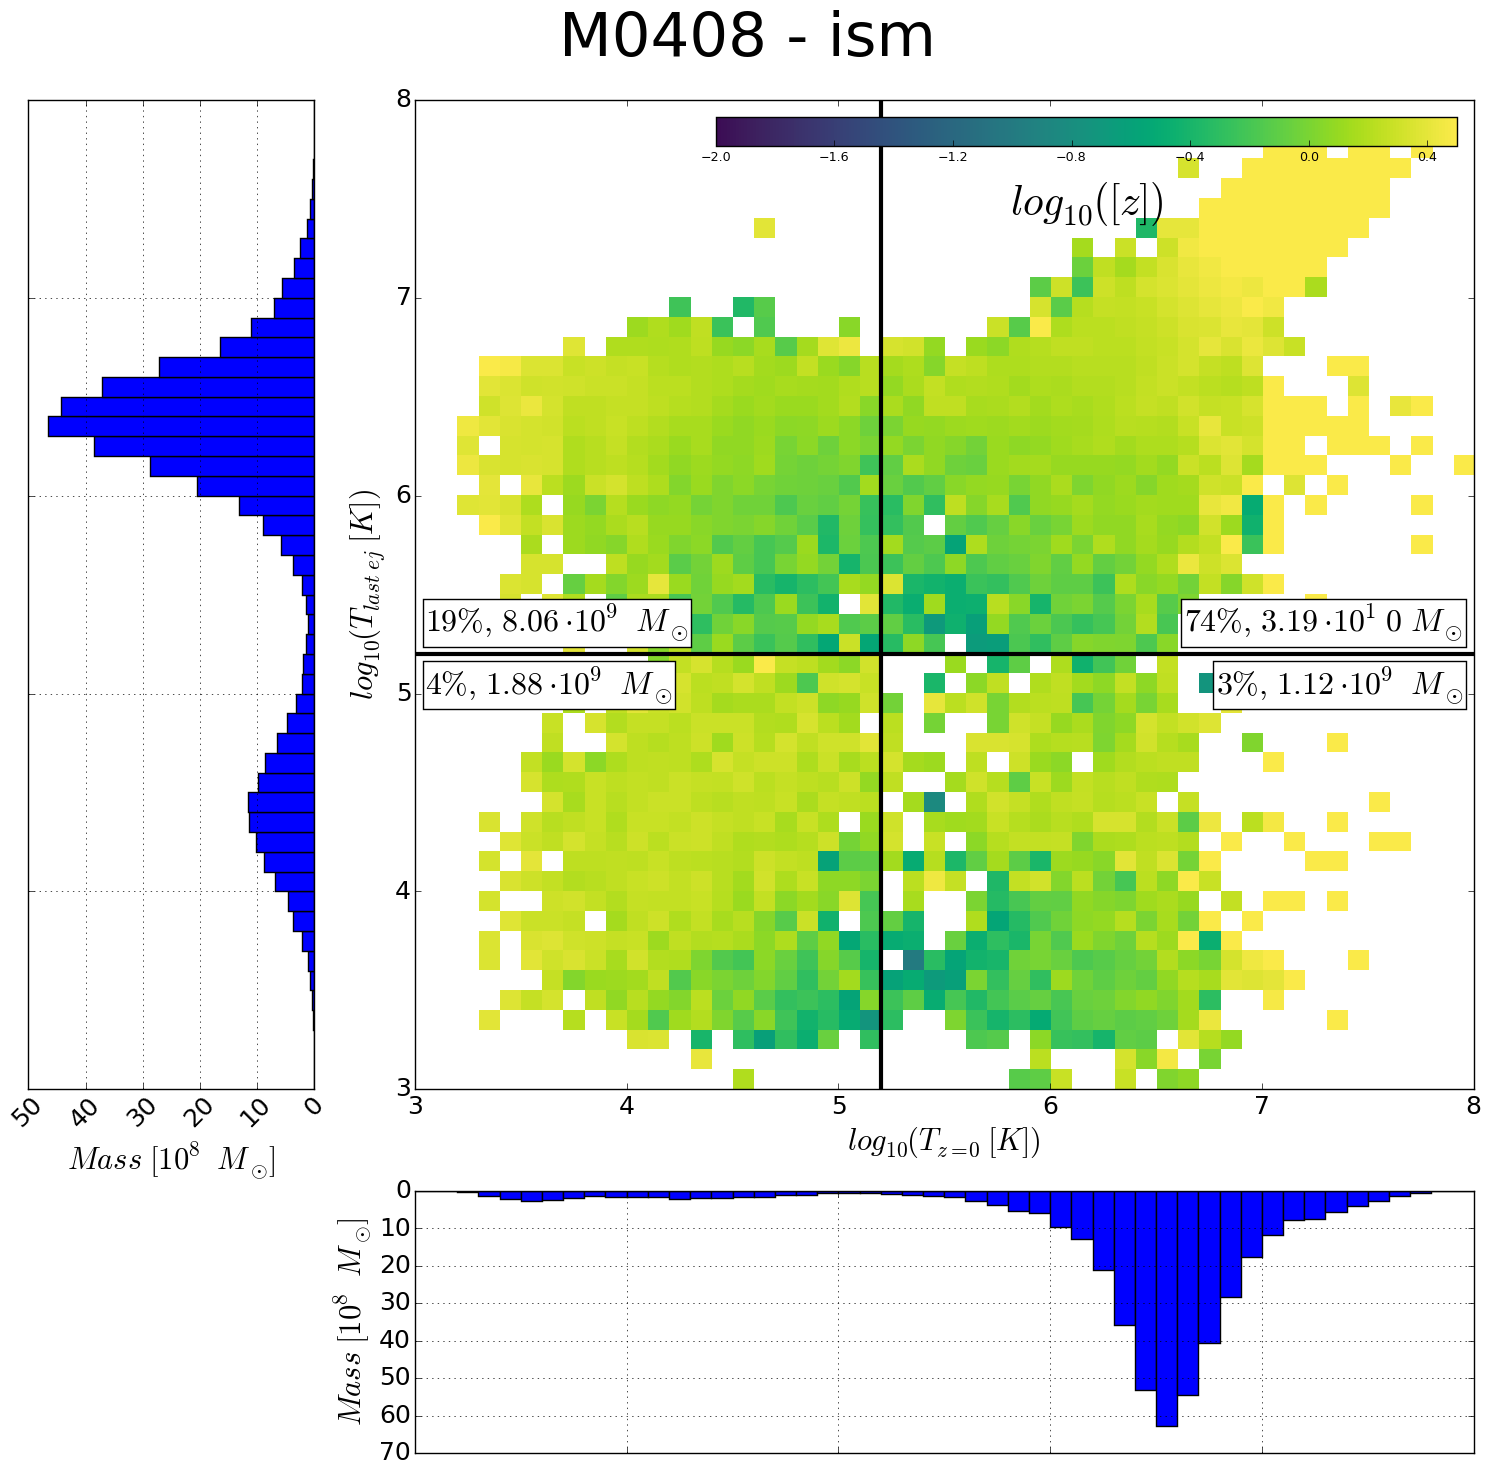
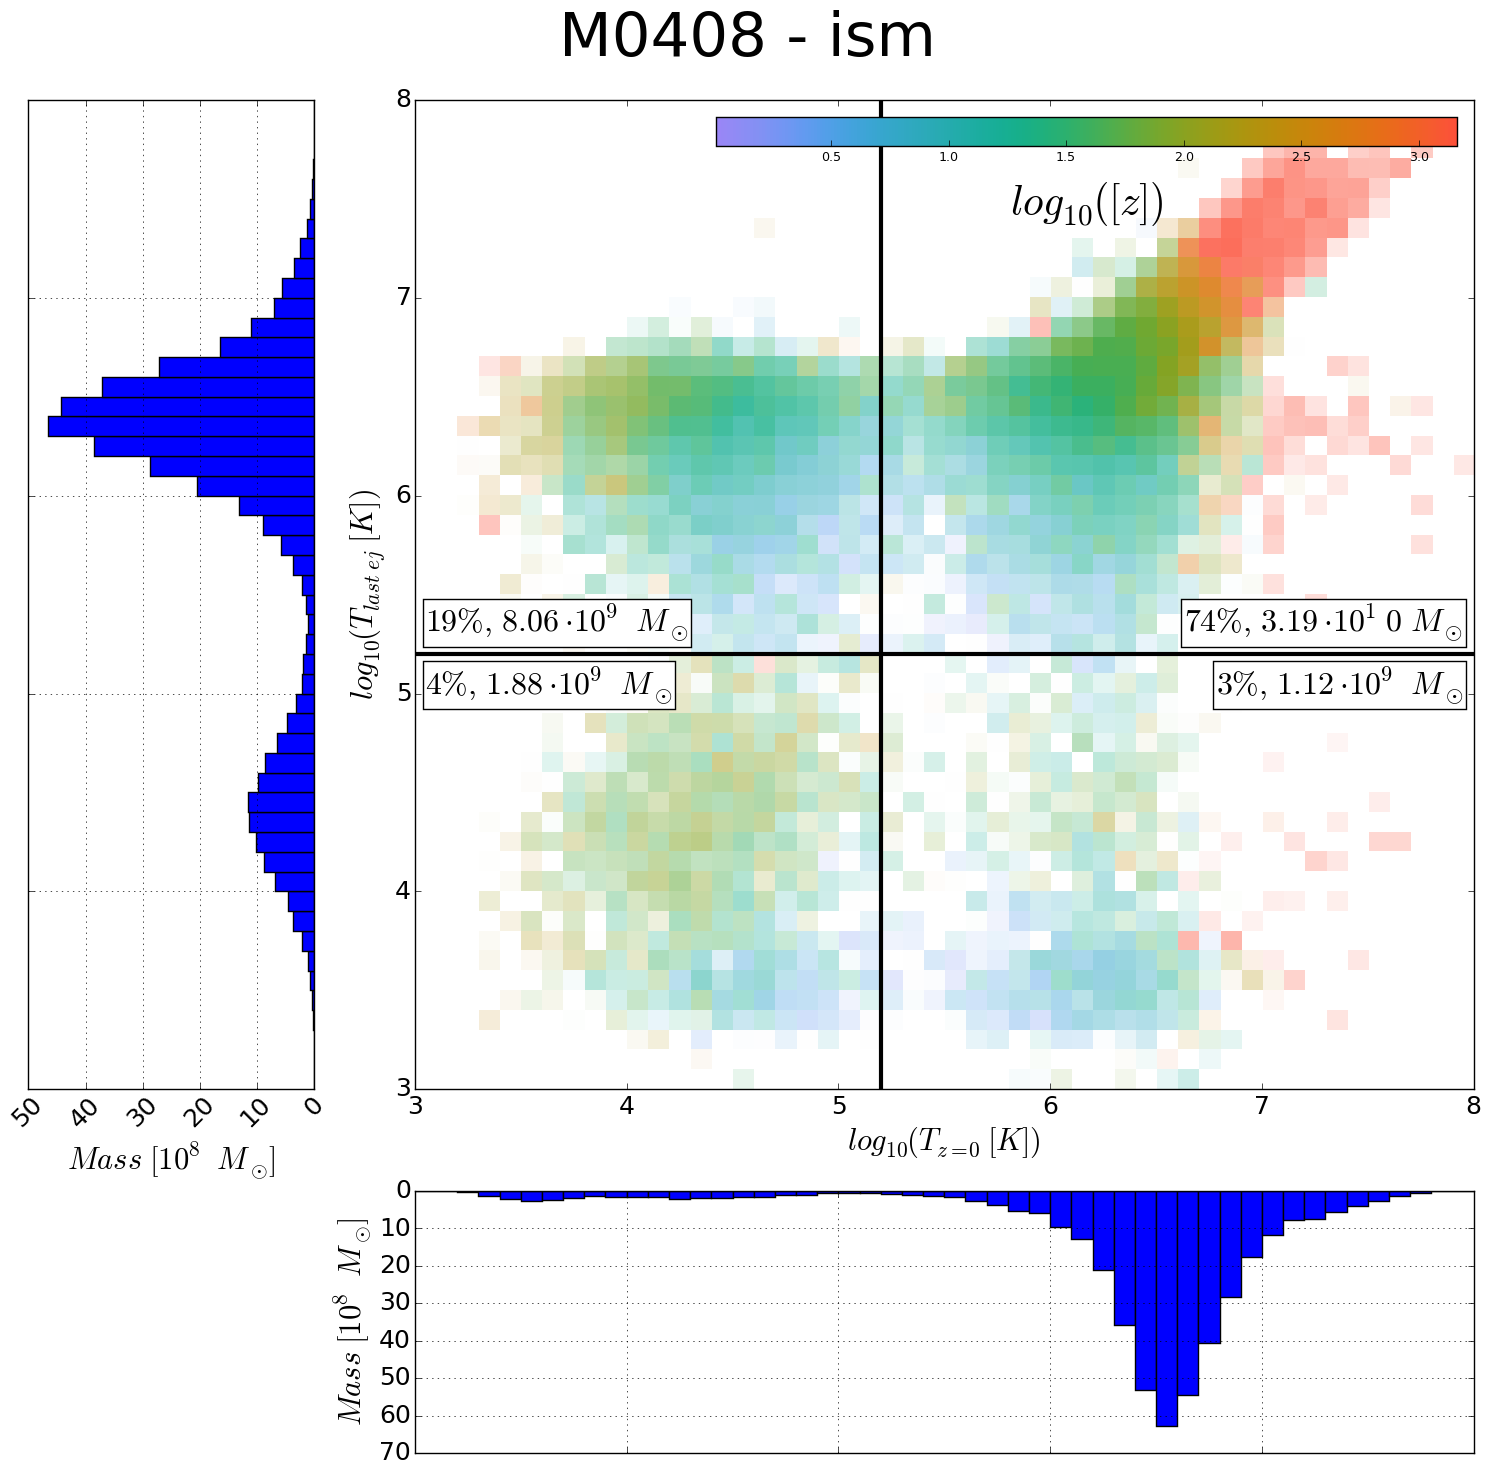
T_z0_vs_ej color by [z], brightness by mass

Changed region(s): [[0.3089, 0.0624, 0.9886, 0.7485], [0.8959, 0.6861, 0.9268, 0.7173]]

diff --git a/1/T_z0_vs_ejection.py b/1/T_z0_vs_ejection.py
@@ -53,9 +53,9 @@ def plot(args):
     ax3 = plt.subplot(gs[-1, 1:])
 
     _, _, _, cbar = pg.plotting.scatter_map('log10(temp)', np.log10(last_T),
-        s=cgm_m, qty=cgm_m['metallicity']/pg.solar.Z(), logscale=True, bins=[bins, bins],
-        extent=[[3, 8], [3, 8]], zero_is_white=True, av='mass',
-        vlim=[10**-2, 10**.5], ax=ax1)
+        s=cgm_m, qty='mass', colors=cgm_m['metallicity']/pg.solar.Z(),
+        logscale=True, bins=[bins, bins], extent=[[3, 8], [3, 8]],
+        zero_is_white=True, clim=[10**-2, 10**.5], colors_av='mass', ax=ax1)
     cbar_ax = cbar.ax
     cbar_ax.set_xlabel(r'$log_{10}\left( [ z ] \right)$', fontsize=30)
     ax1.plot([5.2, 5.2], [0, 1e100], lw=3, c='k')
